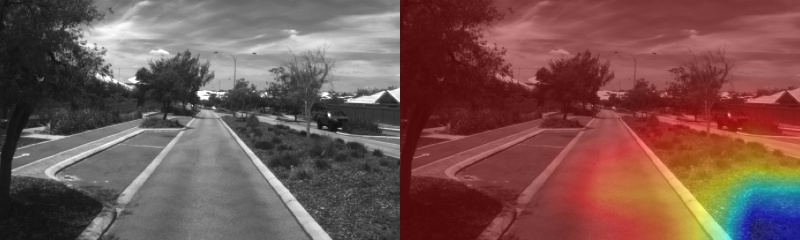
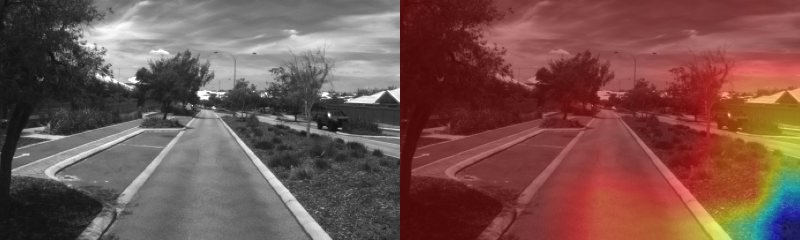
added cam options and steering/speed options to visualisation

Changed region(s): [[0.7188, 0.2333, 1.0, 1.0], [0.6875, 0.9042, 0.8125, 1.0]]

diff --git a/visualise_cam.py b/visualise_cam.py
@@ -2,15 +2,19 @@ import torch
 import cv2
 import numpy as np
 from torchvision import transforms
-from pytorch_grad_cam import EigenCAM
+from pytorch_grad_cam import EigenCAM, GradCAM, GradCAMPlusPlus, ScoreCAM, LayerCAM
 from pytorch_grad_cam.utils.image import show_cam_on_image
 from models import ResNet34PilotNet
 import yaml
 
 # === CONFIG ===
-ckpt_path = "saved_models_logs/Imagenet pretrained/ResNet34PilotNet.pt"  # path on sim pc
-img_path = "eglinton images/eglinton image 2.jpg"  # grayscale or RGB input from Eric
-output_path = "attention map images/attention map imagenet image 2.png"
+# === CONFIG ===
+ckpt_path = "saved_models_logs/Early Stop Unfrozen ppgeo/ResNet34PilotNet.pt"
+img_path = "eglinton images/eglinton image 2.jpg"
+output_path = "attention map images/GradCAM steering ppgeo unfrozen image 2.png"
+
+cam_method = "GradCAM"  # Options: "EigenCAM", "GradCAM", "GradCAMPlusPlus", "ScoreCAM", "LayerCAM"
+target_output = "steering"  # Options: "steering" or "speed"
 
 # === Load config ===
 with open("conf/config.yaml", 'r') as f:
@@ -20,26 +24,35 @@ use_rgb = cfg['model'].get('rgb_input', False)
 
 # === Setup ===
 device = torch.device("cuda" if torch.cuda.is_available() else "cpu")
-model = ResNet34PilotNet(use_rgb=use_rgb).to(device)
+base_model = ResNet34PilotNet(use_rgb=use_rgb).to(device)
 state_dict = torch.load(ckpt_path, map_location=device)
-model.load_state_dict(state_dict)
-model.eval()
+base_model.load_state_dict(state_dict)
+base_model.eval()
 
-# === Wrap model to return only steering output ===
-class SteeringOnlyModel(torch.nn.Module):
-    def __init__(self, model):
+# === Wrap model to return only selected output ===
+class OutputSelector(torch.nn.Module):
+    def __init__(self, model, output_type):
         super().__init__()
         self.model = model
+        self.output_type = output_type
 
     def forward(self, x):
-        _, steering = self.model(x)
-        return steering
+        speed, steer = self.model(x)
+        return steer if self.output_type == "steering" else speed
 
-model = SteeringOnlyModel(model)
+model = OutputSelector(base_model, output_type=target_output)
 
-# === Target layer for CAM ===
-target_layer = model.model.backbone.layer4[-1]
-cam = EigenCAM(model=model, target_layers=[target_layer])
+# === Select CAM method ===
+cam_class = {
+    "EigenCAM": EigenCAM,
+    "GradCAM": GradCAM,
+    "GradCAMPlusPlus": GradCAMPlusPlus,
+    "ScoreCAM": ScoreCAM,
+    "LayerCAM": LayerCAM
+}[cam_method]
+
+target_layer = base_model.backbone.layer4[-1]
+cam = cam_class(model=model, target_layers=[target_layer])
 
 # === Load and preprocess image ===
 if use_rgb:
@@ -63,17 +76,14 @@ else:
 input_tensor = transform(image).unsqueeze(0).to(device)
 grayscale_cam = cam(input_tensor=input_tensor)[0]
 print("🧠 CAM values — min:", grayscale_cam.min(), "max:", grayscale_cam.max())
-print("📐 CAM shape:", grayscale_cam.shape, "| type:", type(grayscale_cam))
 
-
+# === Show CAM ===
 if use_rgb:
-    base_image = image  # shape: [240, 400, 3]
+    base_image = image
 else:
-    base_image = np.repeat(image, 3, axis=-1)  # shape: [240, 400, 1] → [240, 400, 3]
+    base_image = np.repeat(image, 3, axis=-1)
 
 cam_image = show_cam_on_image(base_image, grayscale_cam, use_rgb=True)
-
-
 original_bgr = cv2.cvtColor((image.squeeze(-1) * 255).astype(np.uint8), cv2.COLOR_GRAY2BGR) if not use_rgb else (image * 255).astype(np.uint8)
 side_by_side = np.concatenate((original_bgr, cam_image), axis=1)
 cv2.imwrite(output_path, side_by_side)
